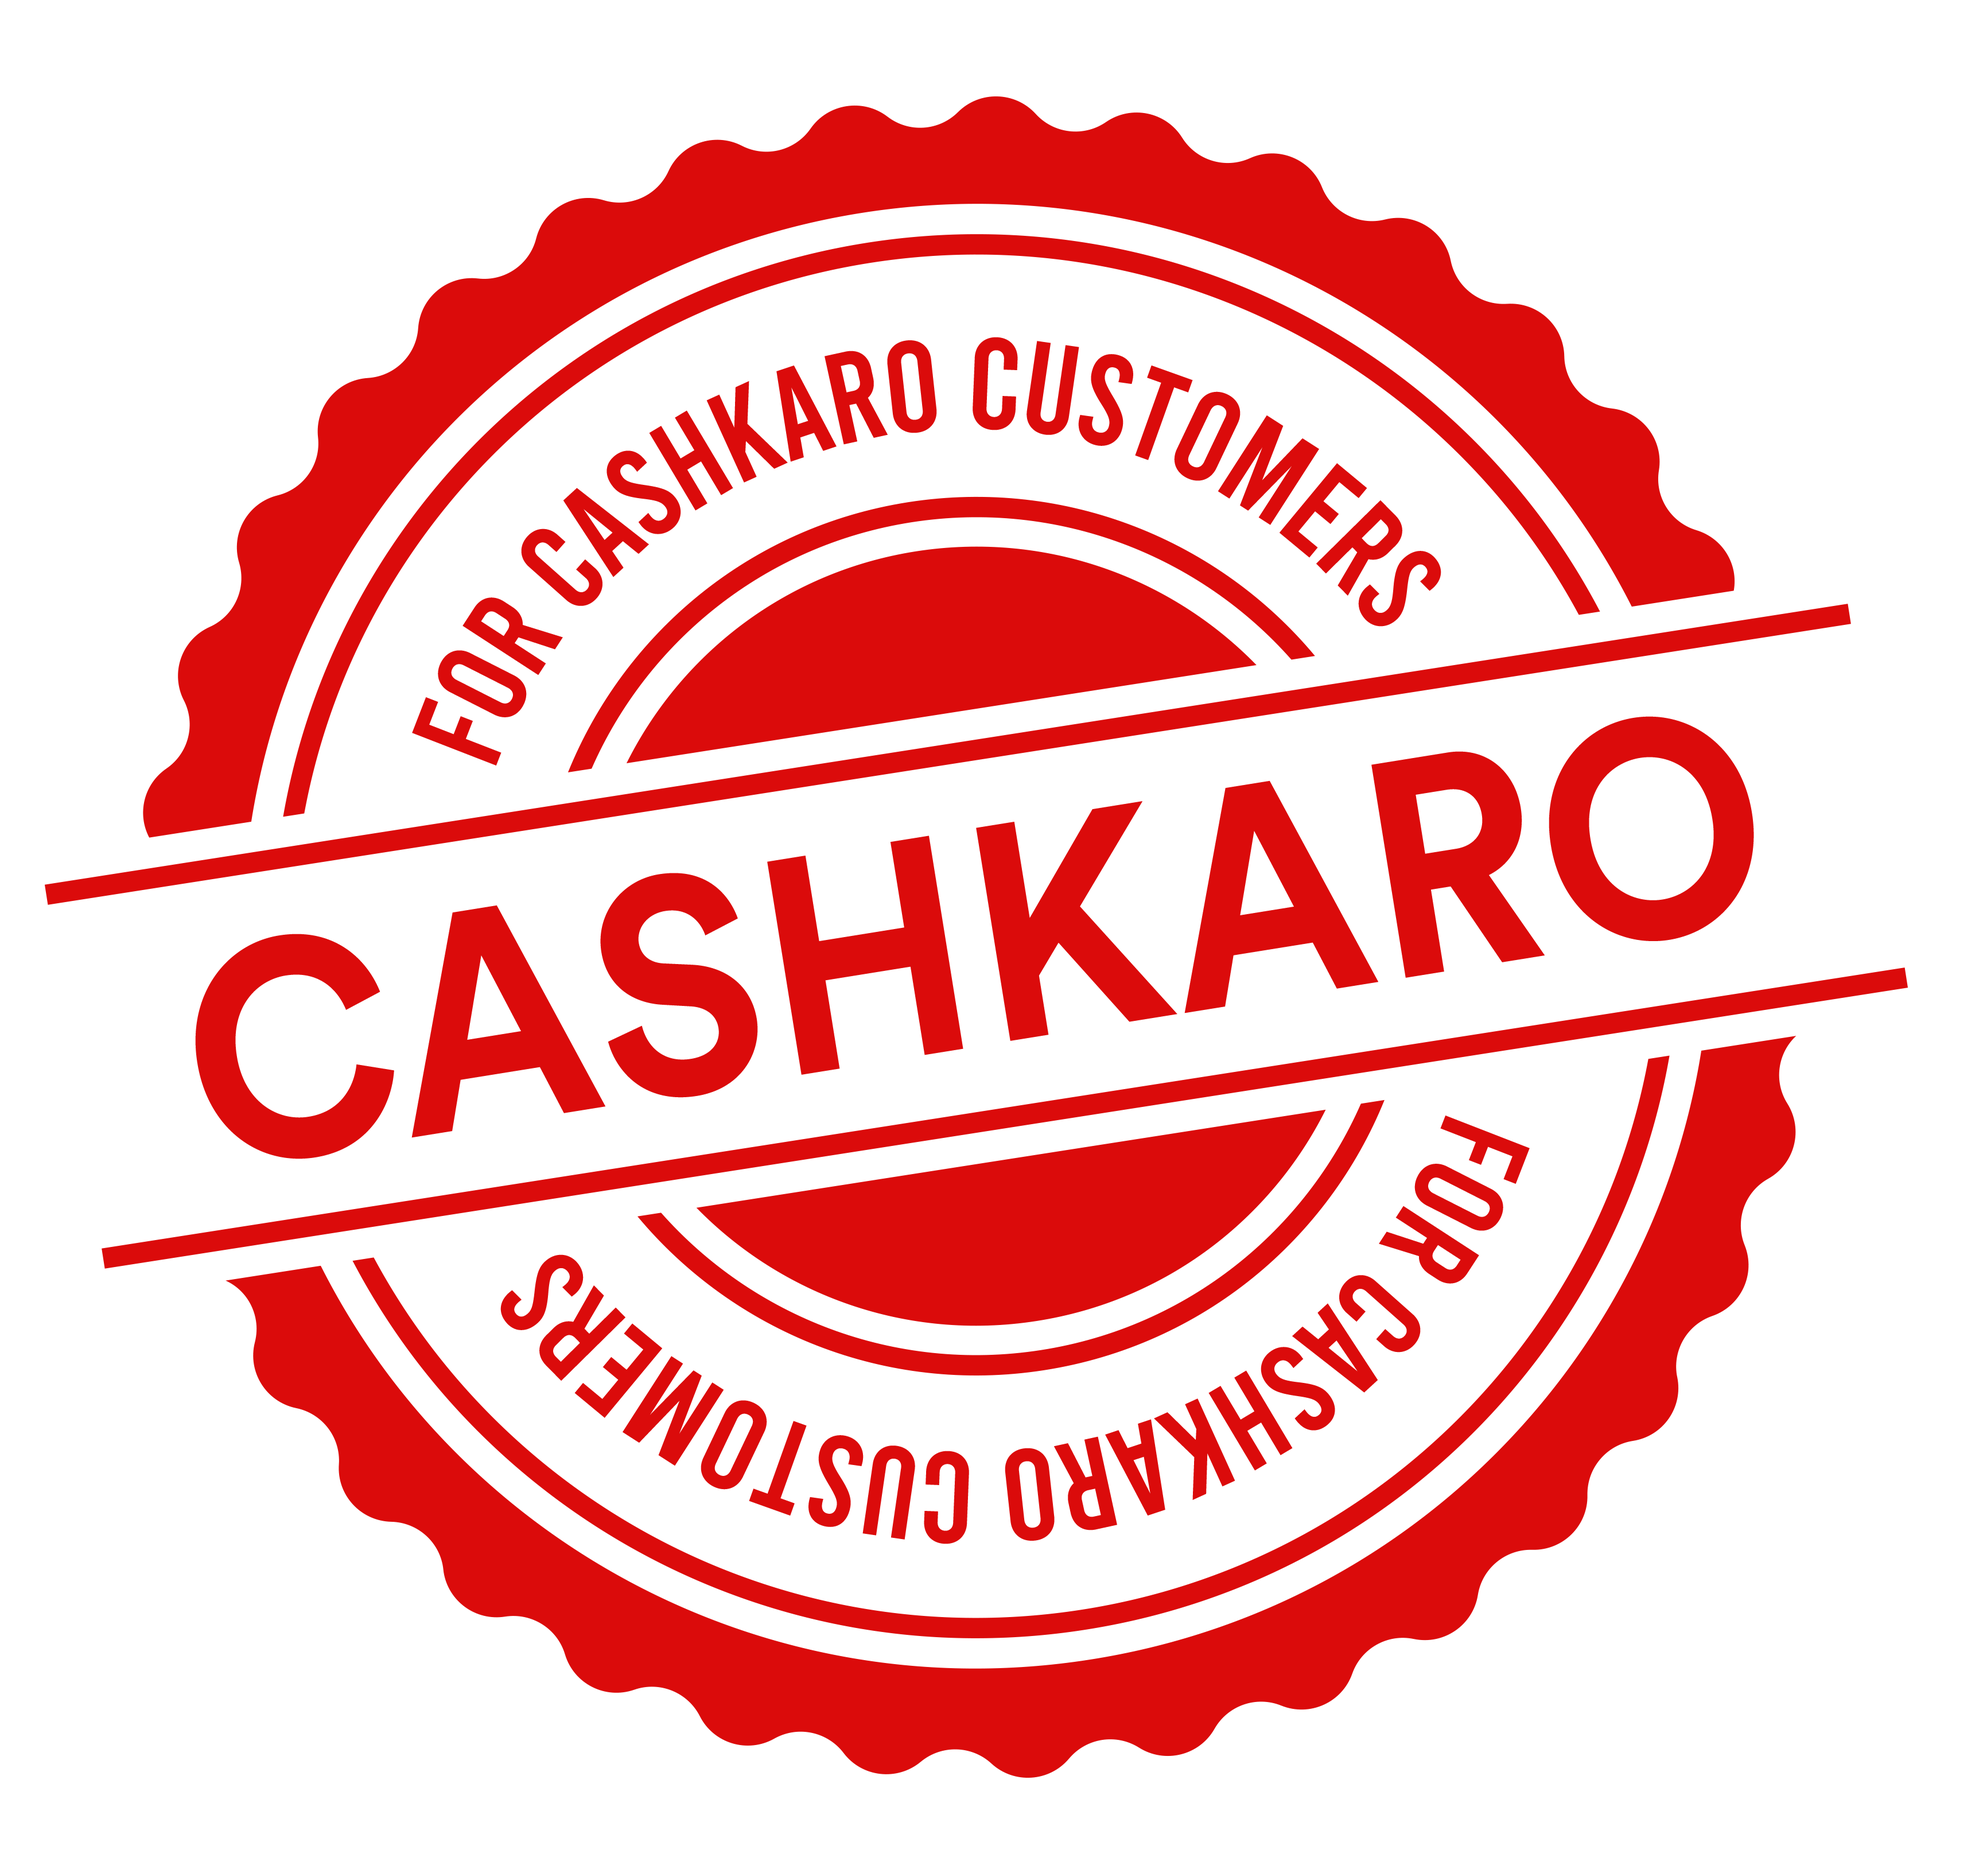
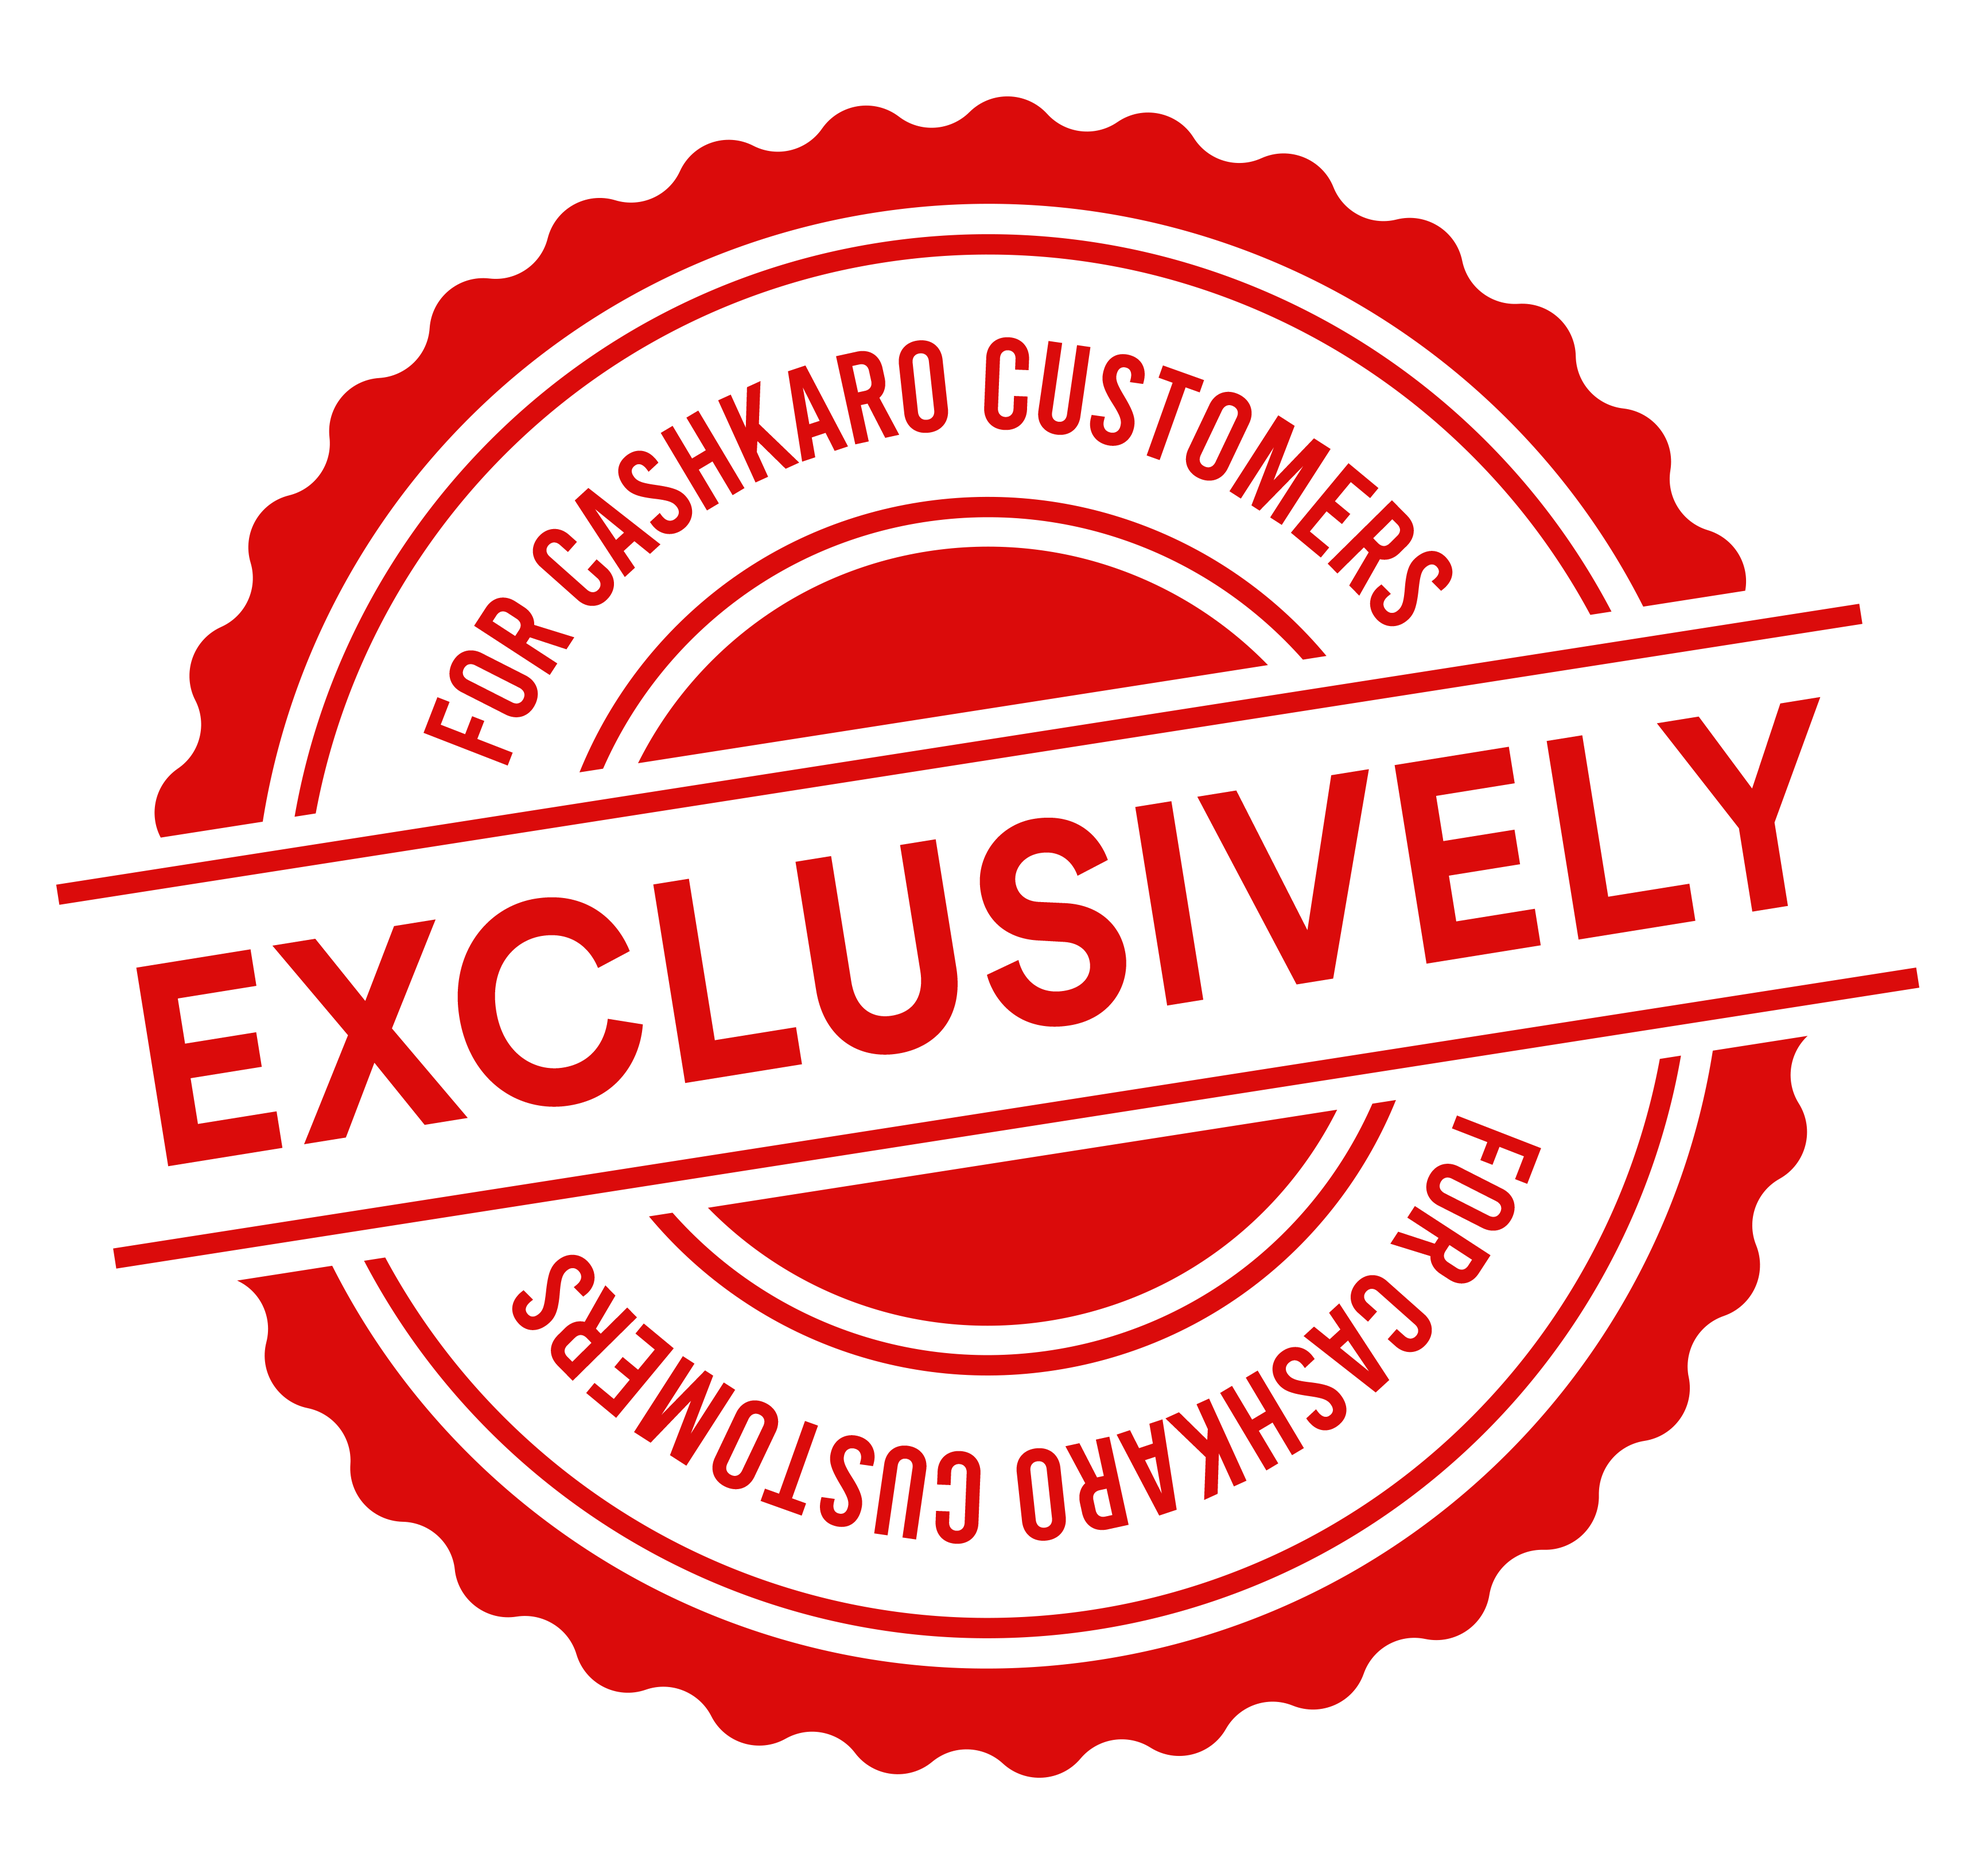
cashkaro

diff --git a/plans/css/style1.css b/plans/css/style1.css
@@ -1836,6 +1836,13 @@ a:hover{
    box-shadow: 0px 5px 20px 0 rgba(0, 0, 0, 0.27);
    color:#ffffff!important;
 }
+
+.stamp{
+    padding-top:40px;
+}
+
+
+
 .service{
     background-color:#fcfcfc;
     padding:6px;
@@ -2280,13 +2287,11 @@ a:hover{
             font-weight: 600;
            font-size: 15px;
             }
-
-  .benitem1  p.sub {
+.benitem1  p.sub {
             font-weight: 400;
             font-size: 90%;
         }
-
-   .val{
+  .val{
     padding-top:0px; 
 }
    .val p{
@@ -2397,6 +2402,13 @@ a:hover{
    box-shadow: 0px 5px 20px 0 rgba(0, 0, 0, 0.27);
    color:#ffffff!important;
 }
+
+.stamp{
+    padding-top:40px;
+}
+
+
+
 .service .buybtn{
    background-color:#0f5fc2;
     color:#EFEDD8; 
@@ -2413,7 +2425,6 @@ a:hover{
     cursor: pointer;
     margin-top:2px;
 }
-
 .service .buybtn:hover{
    background-color:#026cf0;
    box-shadow: 0px 5px 20px 0 rgba(0, 0, 0, 0.27);
@@ -2555,6 +2566,9 @@ a:hover{
     margin-right: auto;
     position:relative;
 }
+.stamp{
+    padding-top:40px;
+}
 .service-fiassure{
      background-color:#fcfcfc;
     height:622px;
@@ -2587,7 +2601,6 @@ a:hover{
    box-shadow: 0px 5px 20px 0 rgba(0, 0, 0, 0.27);
    color:#ffffff!important;
 }
-
 .gromo{
      background-color:#fcfcfc;
     height:557px;
@@ -2651,7 +2664,6 @@ a:hover{
    box-shadow: 0px 5px 20px 0 rgba(0, 0, 0, 0.27);
    color:#ffffff!important;
 }
-
 .val{
     padding-top:10px;
 }
@@ -2759,16 +2771,13 @@ a:hover{
    box-shadow: 0px 5px 20px 0 rgba(0, 0, 0, 0.27);
    color:#ffffff!important;
 }
-
 .thead1{
     letter-spacing: 1px;
     font-size:18px;
 }
-
 .offer1 img{
     margin-top:-22%;
     width:30%;
-
 }
 .benitem {
             text-align: center;
@@ -2903,6 +2912,12 @@ a:hover{
     margin-right: auto;
     position:relative;
 }
+.stamp{
+    padding-top:40px;
+}
+
+
+
 .service{
     padding:6px;
     margin:auto;
@@ -3114,8 +3129,7 @@ a:hover{
      margin-bottom: 2px;
      text-align: left!important;
 }
-
-  .head {
+.head {
             font-family: 'Poppins', sans-serif;
             font-size: 32px;
         }
@@ -3148,12 +3162,11 @@ a:hover{
             margin:4px;
            padding:5px;
         }
-      .benitem  img {
+.benitem  img {
             width: 90px;
            padding: 5px 5px 5px 5px;
-           
-        }
-        .benitem p {
+     }
+.benitem p {
             font-weight: 400;
             color: #ffffff;
             font-size: 13px;
@@ -3205,6 +3218,9 @@ a:hover{
     margin-left:23%;
     margin-right: auto;
     position:relative;
+}
+.stamp{
+    padding-top:40px;
 }
 
 .service{
@@ -3558,6 +3574,11 @@ a:hover{
     margin-right: auto;
     position:relative;
 }
+
+.stamp{
+    padding-top:40px;
+}
+
 .thead1{
     letter-spacing: 1px;
     font-size:18px;
@@ -4449,7 +4470,6 @@ a:hover{
    box-shadow: 0px 5px 20px 0 rgba(0, 0, 0, 0.27);
    color:#ffffff!important;
 }
-
 .sodexo-plan2{
      background-color:#fcfcfc;
     height:372px;
@@ -4458,7 +4478,7 @@ a:hover{
    border:1px solid rgb(201 213 219);
     box-shadow: 5px 7px 9px -4px rgb(158 158 158);
     border-radius:10px;
-    margin-top:10px;
+    margin-top:120px;
 }
 .sodexo-plan2 .buybtn{
    background-color:#0f5fc2;
@@ -4487,6 +4507,12 @@ a:hover{
     margin-right: auto;
     position:relative;
 }
+
+.stamp{
+    padding-top:40px;
+}
+
+
 .thead1{
     letter-spacing: 1px;
     font-size:18px;
@@ -7038,6 +7064,12 @@ a:hover{
     margin-right: auto;
     position:relative;
 }
+
+.stamp{
+    padding-top:150px;
+}
+
+
 .service{
      background-color:#fcfcfc;
     padding:6px;
@@ -7398,6 +7430,9 @@ a:hover{
    background-color:#0860cc;
    box-shadow: 0px 5px 20px 0 rgba(0, 0, 0, 0.27);
    color:#ffffff!important;
+}
+.stamp{
+    padding-top:150px;
 }
 .sodexo-plan2{
      background-color:#fcfcfc;

diff --git a/plans/cashkaro.html b/plans/cashkaro.html
@@ -253,8 +253,8 @@ selector { property:value; }
   </div>
 </div>
 
- <div class="col-md-4 col-lg-2 col-xl-2 col-xxl-2 col-8 mx-auto" style="padding-top:150px;">
-    <img src="images/cashkaro-stamp.png" class="img-fluid">
+ <div class="col-md-4 col-lg-2 col-xl-2 col-xxl-2 col-8 mx-auto">
+    <img src="images/cashkaro-stamp.png" class="img-fluid stamp">
     <img src="images/no-creditcard.png" class="img-fluid pt-1">
     </div> 
    <div class="col-md-12 col-sm-12 col-lg-5  col-xl-5 col-xxl-5" style="margin-top:85px;">
@@ -286,7 +286,7 @@ selector { property:value; }
           <p class="tnc1 pl-2">(Excl. GST) </p>  
     </div>
     <div class="col-md-6 ">
-         <a href="javascript:OpenBuyPlanPopup('Startassure Sodexo','SODFREE01','')"     class="buybtn float-end">  <span style="font-size:14px;text-align:left; padding-right:16px;"> Buy Now </span><br/>  <span style="font-size:20px; font-weight:500;"> &#8377; <del> 1499 </del> &nbsp;  999/-</span>  </a> 
+         <a href="javascript:OpenBuyPlanPopup('StateAssure Silver Plus','HAOPDS1112','')"  class="buybtn float-end">  <span style="font-size:14px;text-align:left; padding-right:16px;"> Buy Now </span><br/>  <span style="font-size:20px; font-weight:500;"> &#8377; <del> 1499 </del> &nbsp;  999/-</span>  </a> 
     </div>
     </div>
   </div> 
